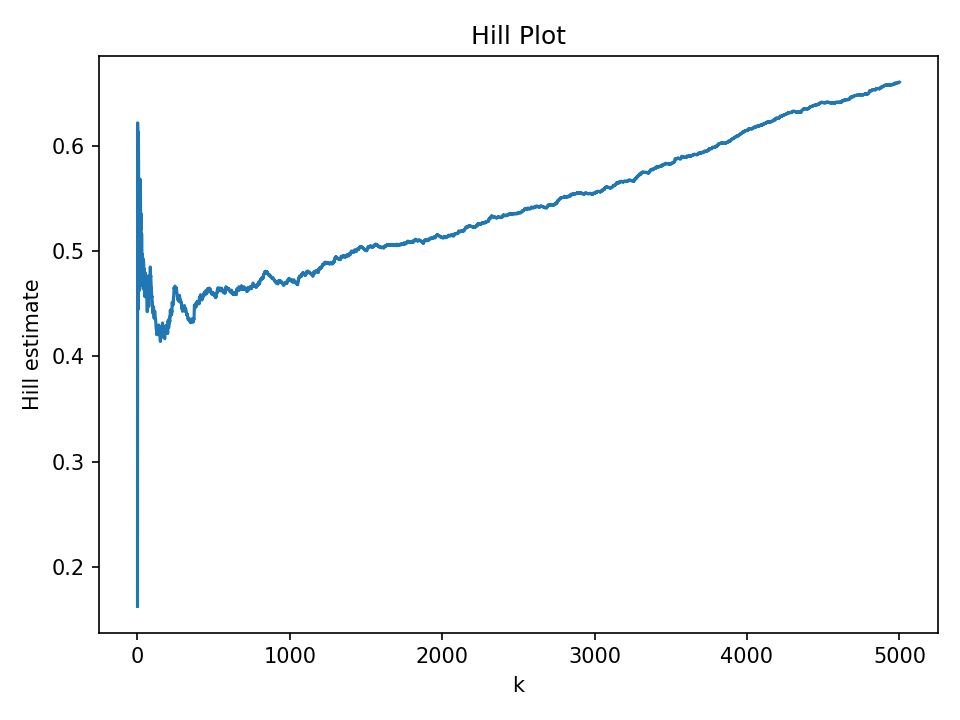
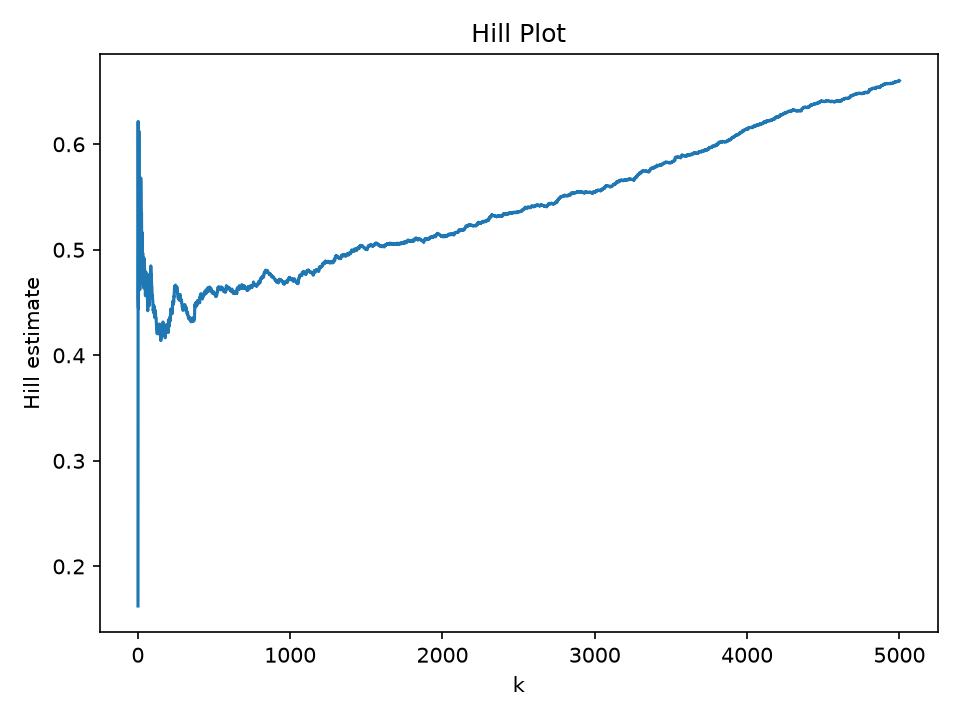
Add risksim integration test

diff --git a/tests/test_risksim_integration.py b/tests/test_risksim_integration.py
@@ -1,0 +1,81 @@
+"""Integration test: extremeloss tail helpers against a real risksim SimulationResult.
+
+Mirrors test_spliced_integration.py (the lossmodels bridge): skips cleanly if the
+optional sibling is not installed. This pins the duck-typed risksim contract against an
+actual simulation result, not just a hand-rolled stand-in, so a future rename of a
+risksim loss view (e.g. ceded_losses) is caught here rather than silently passing.
+"""
+from __future__ import annotations
+
+import numpy as np
+import pytest
+
+risksim = pytest.importorskip("risksim")
+pytest.importorskip("lossmodels")
+
+from lossmodels.aggregate import CollectiveRiskModel  # noqa: E402
+from lossmodels.frequency import Poisson  # noqa: E402
+from lossmodels.severity import Lognormal  # noqa: E402
+from risksim import AggregateLayer, ContractProgram, Portfolio, PortfolioItem  # noqa: E402
+
+from extremeloss import (  # noqa: E402
+    component_tail_metrics,
+    layer_tail_metrics,
+    losses_from_risksim,
+    tail_summary_from_risksim,
+)
+
+SIZE = 10_000
+
+
[email redacted]
+def result():
+    np.random.seed(2026)
+    portfolio = Portfolio(
+        [
+            PortfolioItem("medical", CollectiveRiskModel(Poisson(lam=3.0), Lognormal(mu=3.0, sigma=0.6))),
+            PortfolioItem("rx", CollectiveRiskModel(Poisson(lam=2.0), Lognormal(mu=2.3, sigma=0.5))),
+        ],
+        name="tower_demo",
+    )
+    program = ContractProgram(
+        [
+            AggregateLayer(attachment=50.0, limit=50.0, name="layer_1"),
+            AggregateLayer(attachment=100.0, limit=100.0, name="layer_2"),
+        ],
+        name="two_layer_tower",
+    )
+    return portfolio.simulate(size=SIZE, contract=program)
+
+
[email redacted]("view", ["losses", "gross", "gross_losses", "retained", "retained_losses", "ceded", "ceded_losses"])
+def test_losses_from_risksim_every_view(result, view):
+    losses = losses_from_risksim(result, view=view)
+    assert losses.ndim == 1 and losses.shape[0] == SIZE
+    assert np.isfinite(losses).all()
+
+
+def test_unknown_view_raises(result):
+    with pytest.raises(ValueError):
+        losses_from_risksim(result, view="not_a_view")
+
+
+def test_tail_summary_from_risksim(result):
+    summary = tail_summary_from_risksim(result, view="ceded", quantiles=(0.95, 0.99))
+    assert summary["n"] == SIZE
+    assert "var_tvar" in summary
+
+
+def test_component_tail_metrics_track_component_names(result):
+    metrics = component_tail_metrics(result, q=0.99, threshold=60.0)
+    assert set(metrics) == set(result.component_names)
+    for stats in metrics.values():
+        assert stats["tvar"] >= stats["var"]          # TVaR is the mean beyond VaR
+        assert "exceedance_probability" in stats       # threshold was supplied
+
+
+def test_layer_tail_metrics_track_layer_names(result):
+    metrics = layer_tail_metrics(result, q=0.99)
+    assert set(metrics) == set(result.layer_names)
+    for stats in metrics.values():
+        assert stats["tvar"] >= stats["var"]

diff --git a/src/extremeloss/__init__.py b/src/extremeloss/__init__.py
@@ -106,4 +106,4 @@ __all__ = [
     "threshold_diagnostic_table",
 ]
 
-__version__ = "0.2.1"
+__version__ = "0.2.2"

diff --git a/src/extremeloss/plotting.py b/src/extremeloss/plotting.py
@@ -1,7 +1,6 @@
 from __future__ import annotations
 
 import matplotlib.pyplot as plt
-import numpy as np
 
 from .estimation.metrics import exceedance_curve
 from .evt.tail_index import hill_curve

diff --git a/CHANGELOG.md b/CHANGELOG.md
@@ -1,5 +1,18 @@
 # Changelog
 
+## 0.2.2
+
+### Fixed
+- Removed an unused `numpy` import in `plotting.py` (lint hygiene; no behaviour change).
+
+### Tests
+- Added `test_risksim_integration.py`, exercising the duck-typed risksim bridge
+  (`losses_from_risksim`, `tail_summary_from_risksim`, `component_tail_metrics`,
+  `layer_tail_metrics`) against a real `risksim` `SimulationResult` rather than only a
+  stand-in object. Skips cleanly when `risksim`/`lossmodels` are not installed, matching
+  the existing spliced-severity integration test. Guards against a future rename of a
+  risksim loss view silently breaking the integration.
+
 ## 0.2.1
 
 ### Added (packaging)